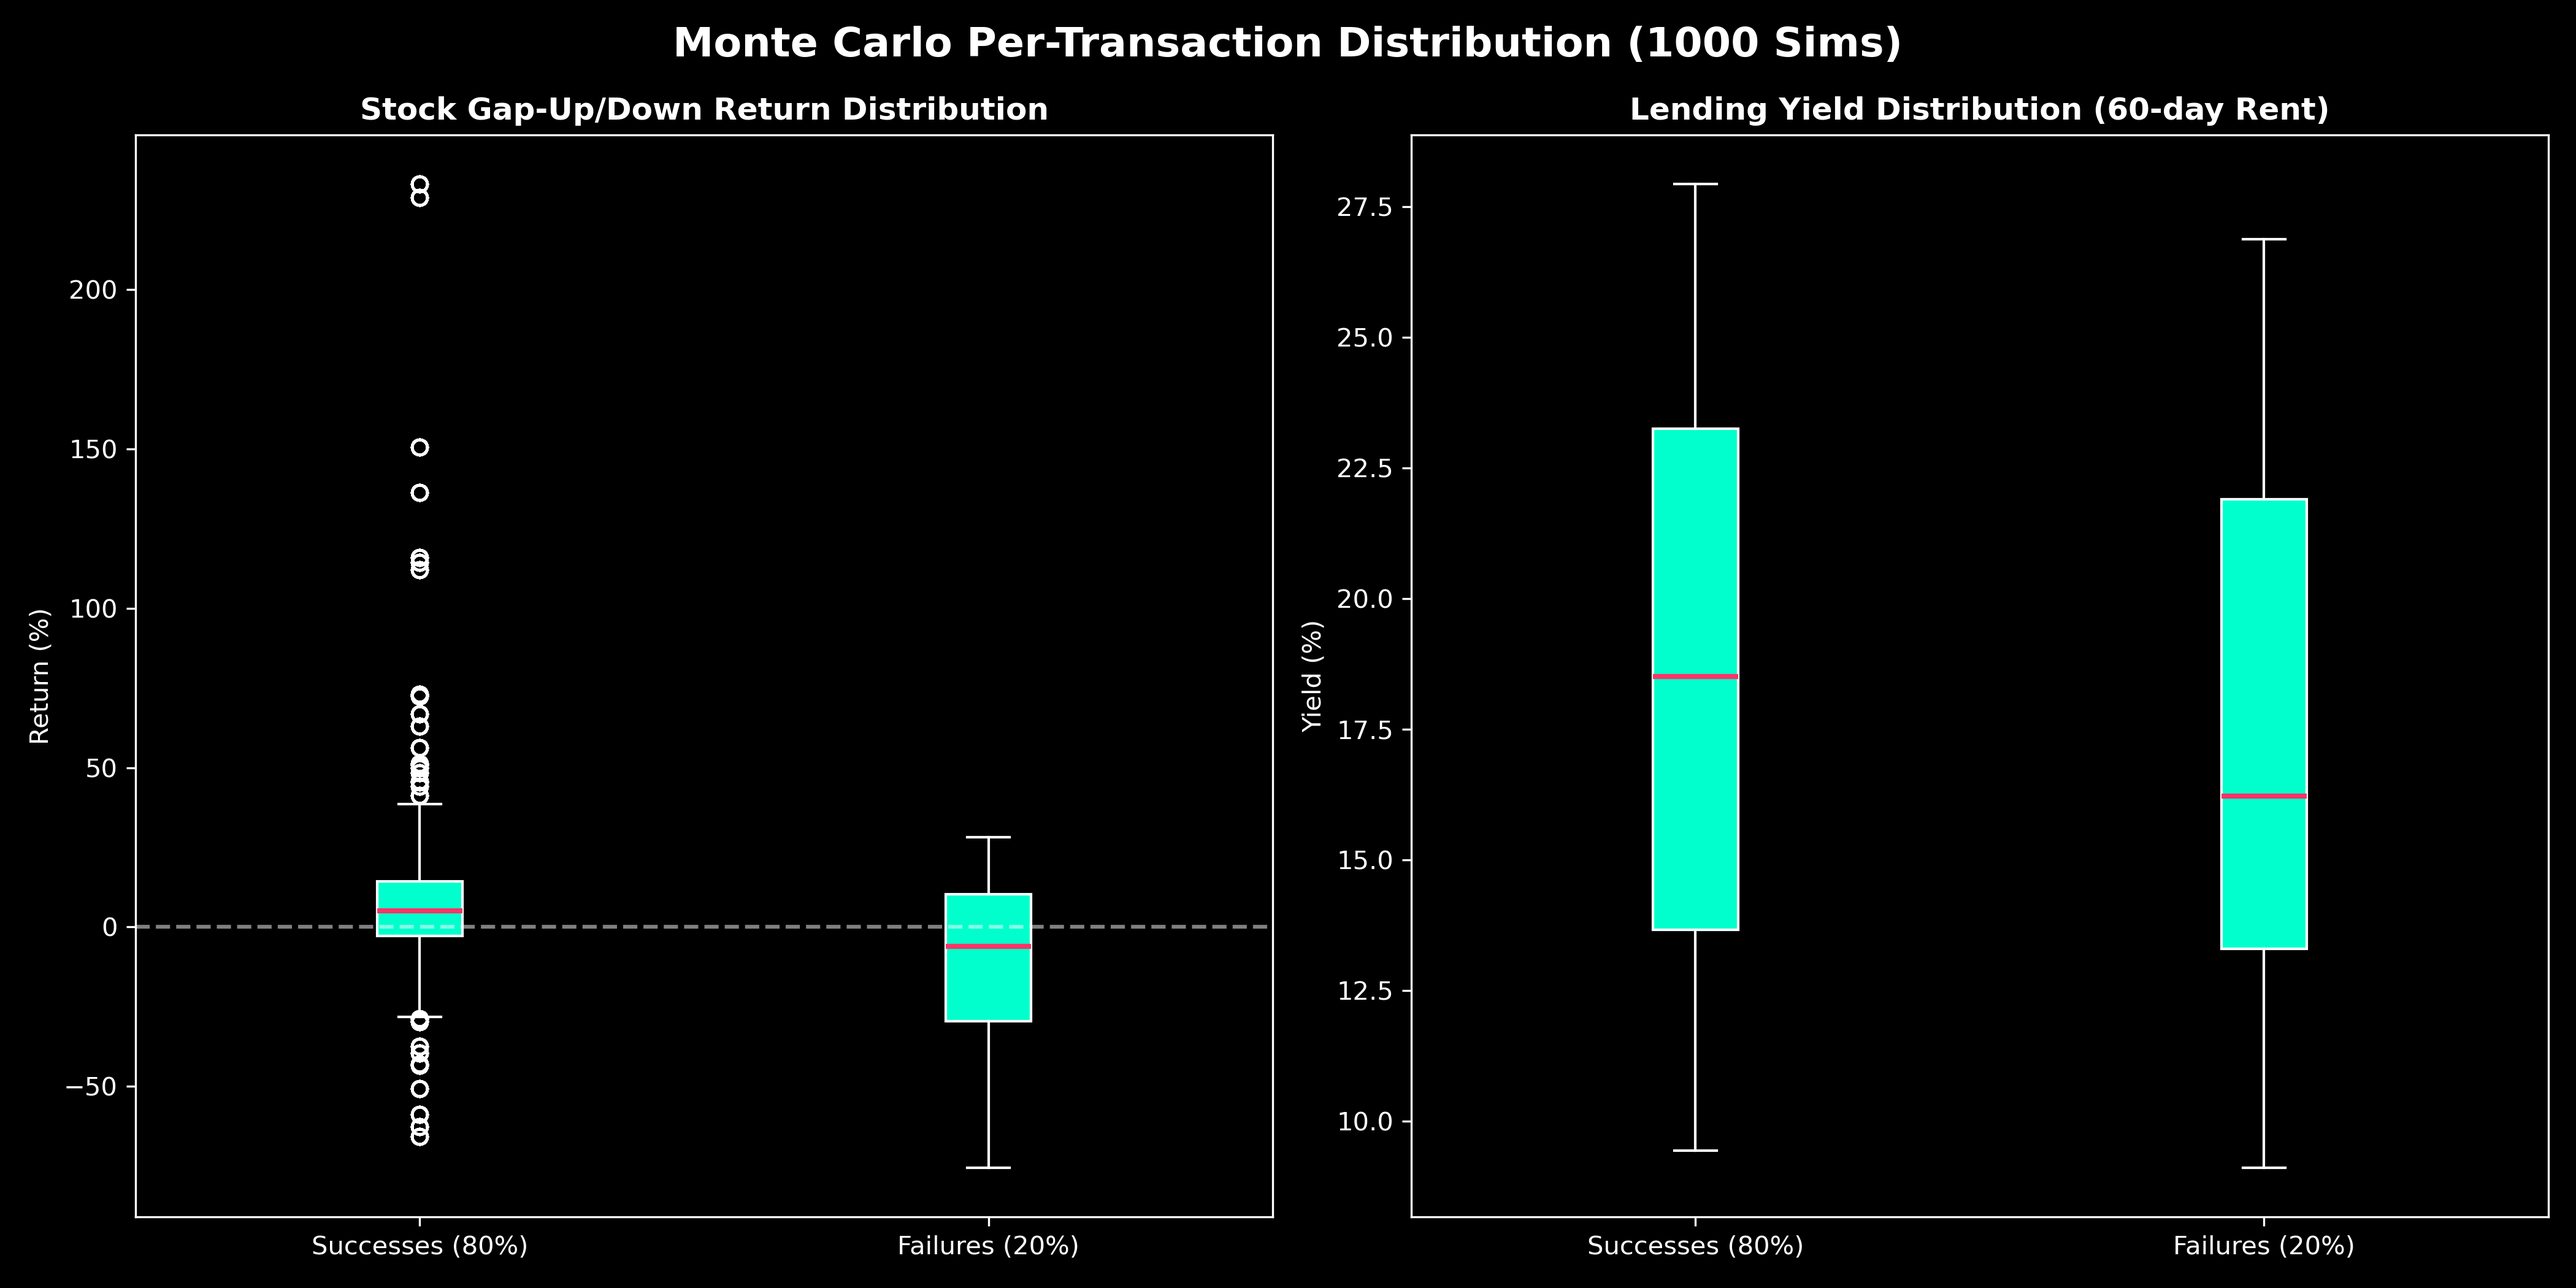
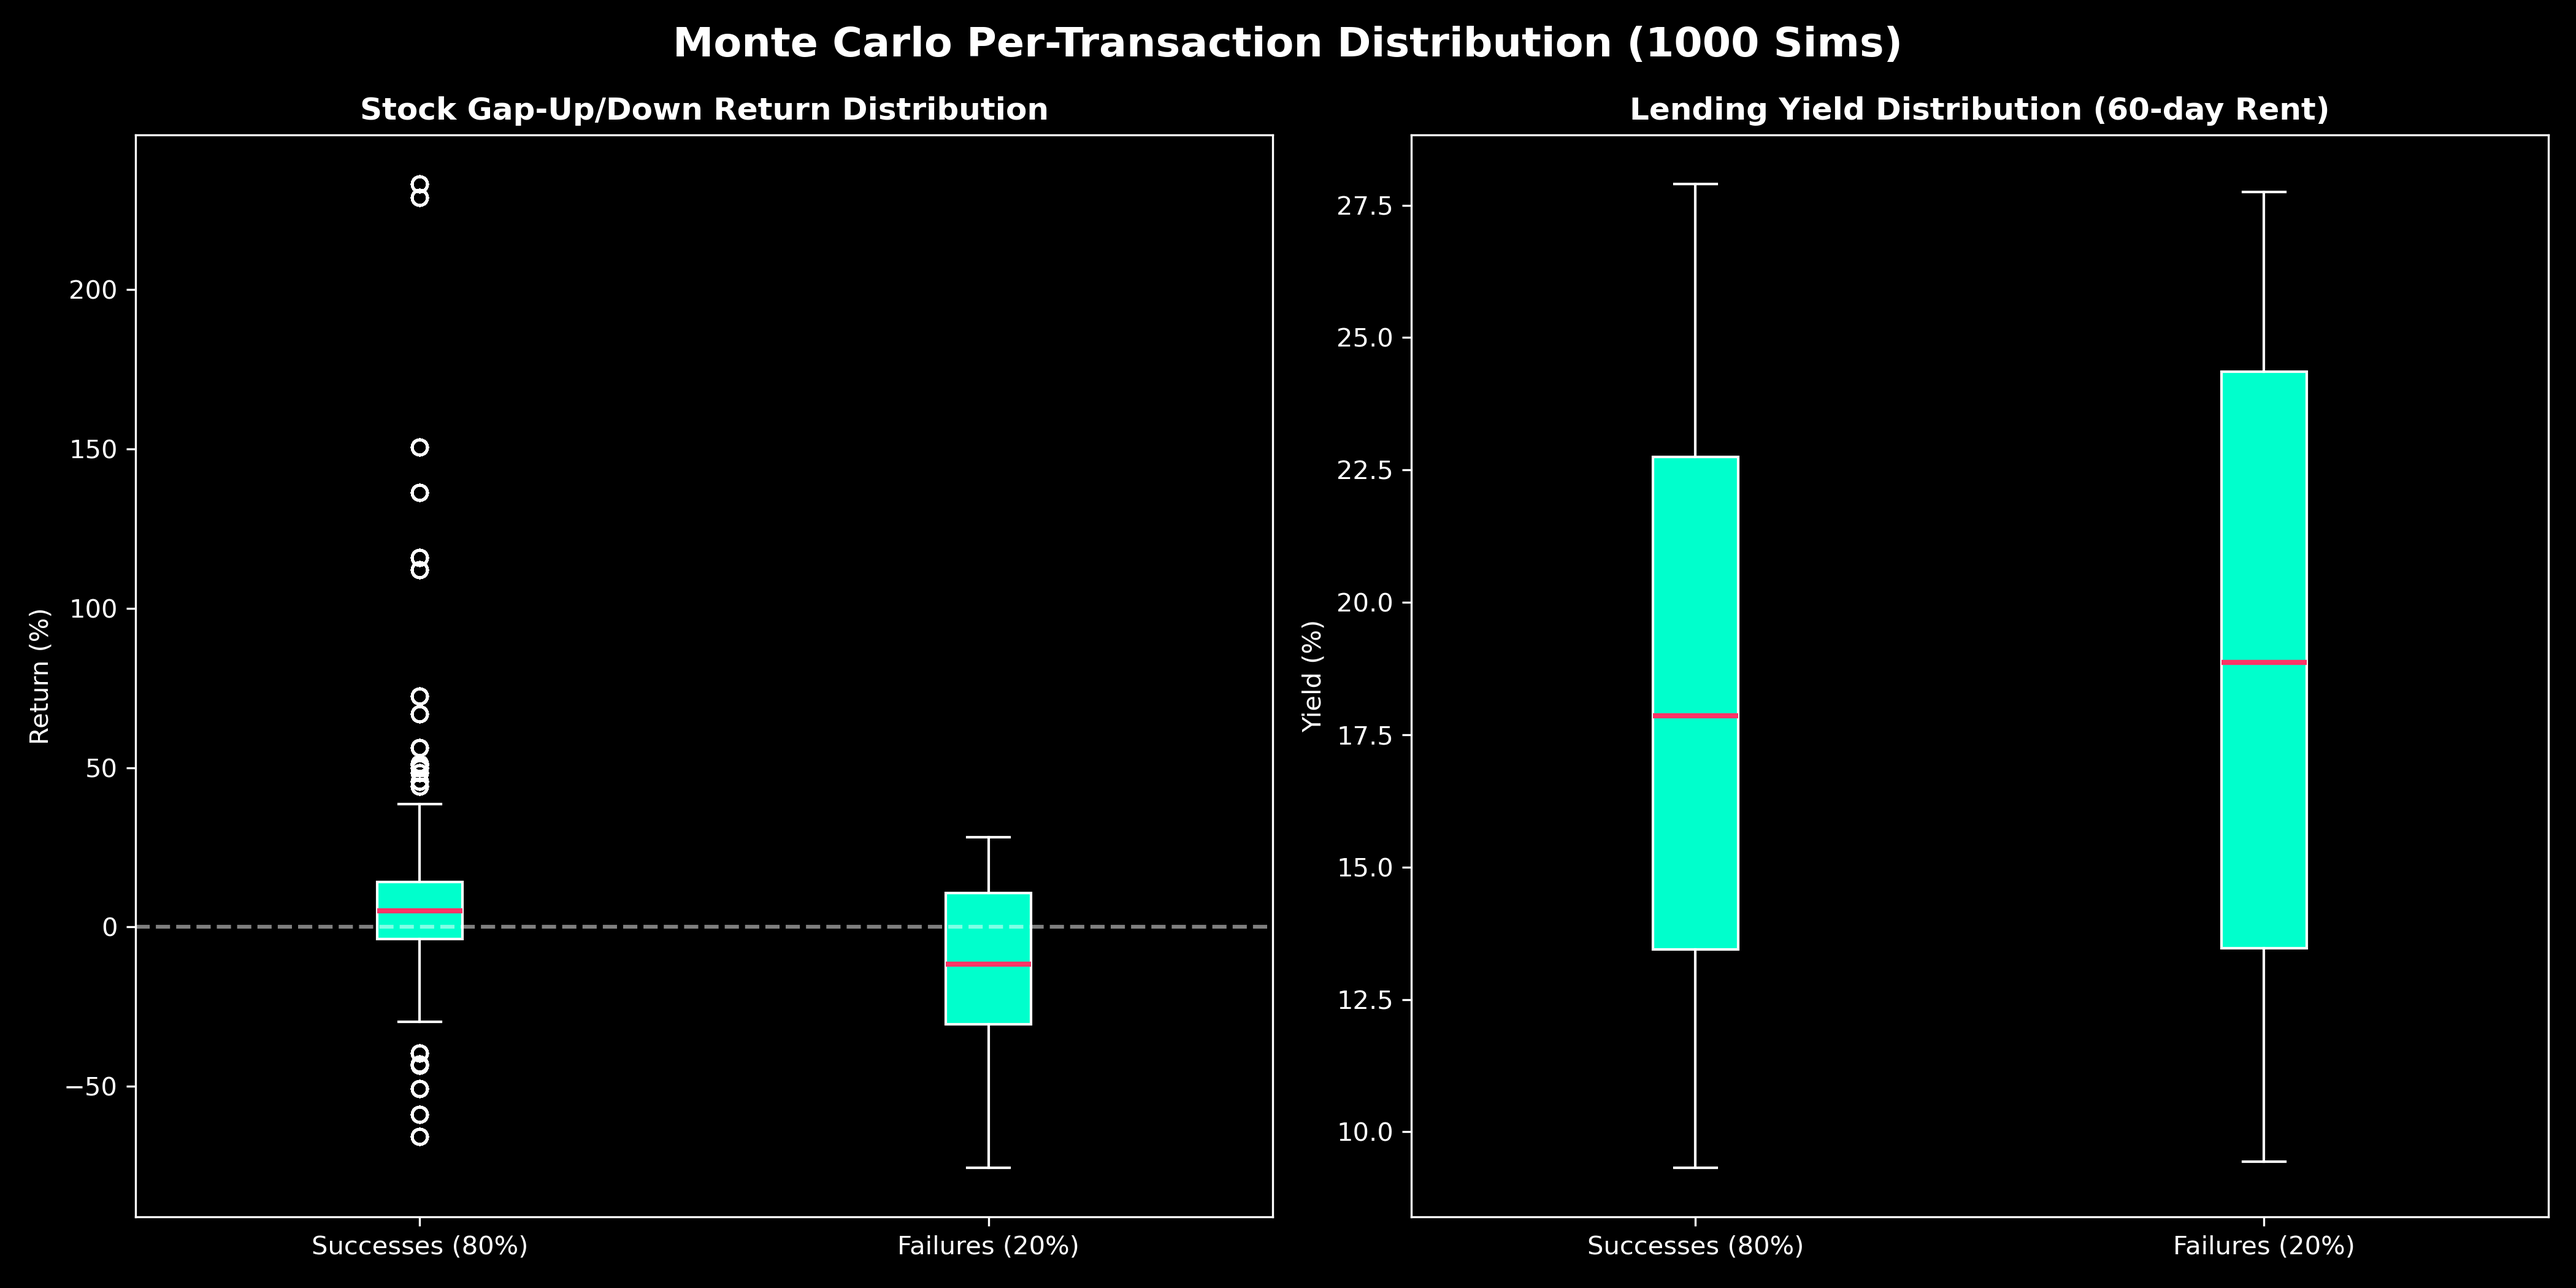
Update V4 backtest for Small Molecules only

diff --git a/src/fpsl_mc_engine.py b/src/fpsl_mc_engine.py
@@ -47,6 +47,7 @@ with open(CSV_FILE, 'r') as f:
         status = row.get('Approved or CRL', '').strip().lower()
         cat_date_str = row.get('Catalyst Date', '').strip()
         desc = row.get('Catalyst Description', '').strip().lower()
+        drug_name = row.get('Drug Name', '').strip()
         
         if not ticker or not cat_date_str:
             continue
@@ -76,7 +77,8 @@ with open(CSV_FILE, 'r') as f:
                 'Catalyst_Date': cat_date,
                 'Description': desc,
                 'Status': status,
-                'Actual_Outcome': 'Success'
+                'Actual_Outcome': 'Success',
+                'Drug Name': drug_name
             })
         elif is_failure:
             all_events.append({
@@ -84,7 +86,8 @@ with open(CSV_FILE, 'r') as f:
                 'Catalyst_Date': cat_date,
                 'Description': desc,
                 'Status': status,
-                'Actual_Outcome': 'Failure'
+                'Actual_Outcome': 'Failure',
+                'Drug Name': drug_name
             })
 
 all_events.sort(key=lambda x: x['Catalyst_Date'])
@@ -92,7 +95,17 @@ all_events = [ev for ev in all_events if datetime(2014, 1, 1) <= ev['Catalyst_Da
 print(f"Found {len([e for e in all_events if e['Actual_Outcome'] == 'Success'])} successes and {len([e for e in all_events if e['Actual_Outcome'] == 'Failure'])} failures.")
 
 valid_events = []
+try:
+    with open('../data/small_molecules_list.json', 'r') as f:
+        small_molecules = set(json.load(f))
+except:
+    small_molecules = set()
+    
 for ev in all_events:
+    # Only process small molecules
+    if ev['Drug Name'] not in small_molecules:
+        continue
+        
     ticker = ev['Ticker']
     cat_date = ev['Catalyst_Date']
     

diff --git a/README.md b/README.md
@@ -14,7 +14,7 @@ However, rather than relying solely on the capital appreciation (the "gap up") o
 4. **The FPSL Kicker (The "Rent"):** During the 60-day holding period, these biotech stocks are heavily shorted by the broader market predicting failure. The fund lends its shares out to these short-sellers, collecting massive borrow fees (typically ranging from 40% to 120% APR).
 5. **Exit:** The position is exited exactly 2 days after the catalyst date to capture the gap-up return and close the trade.
 
-A **Monte Carlo Simulation (1000 Iterations)** was performed assuming the AI model has an **80% Precision Rate** (80% of taken trades are actual clinical successes, 20% are actual failures). The daily-rebalancing model (focusing solely on the high-frequency 2014-2018 window) compounded an initial capital of $10M into a **Mean Final NAV of $748.19 Million** (a **175.02% Mean CAGR**).
+A **Monte Carlo Simulation (1000 Iterations)** was performed focusing exclusively on **Small Molecule** drugs, assuming the AI model has an **80% Precision Rate** (80% of taken trades are actual clinical successes, 20% are actual failures). The daily-rebalancing model (focusing solely on the high-frequency 2014-2018 window) compounded an initial capital of $10M into a **Mean Final NAV of $701.29 Million** (a **175.85% Mean CAGR**).
 
 ![Fund Performance Curve](fpsl_mc_plot.png)
 
@@ -24,7 +24,7 @@ In reality, many "successful" Phase 2/3 trials result in the stock trading down 
 ![Per-Trade Statistics](fpsl_mc_boxplots.png)
 
 ### Representative Simulation (Per-Trade Breakdown)
-To visualize exactly how the yield cushions the capital losses in a single sequential timeline, the script isolates the specific simulation whose final NAV closest matches the $748.19 Million Mean.
+To visualize exactly how the yield cushions the capital losses in a single sequential timeline, the script isolates the specific simulation whose final NAV closest matches the $701.29 Million Mean.
 
 ![Representative MC Simulation Trades](fpsl_mc_representative_trades.png)
 
